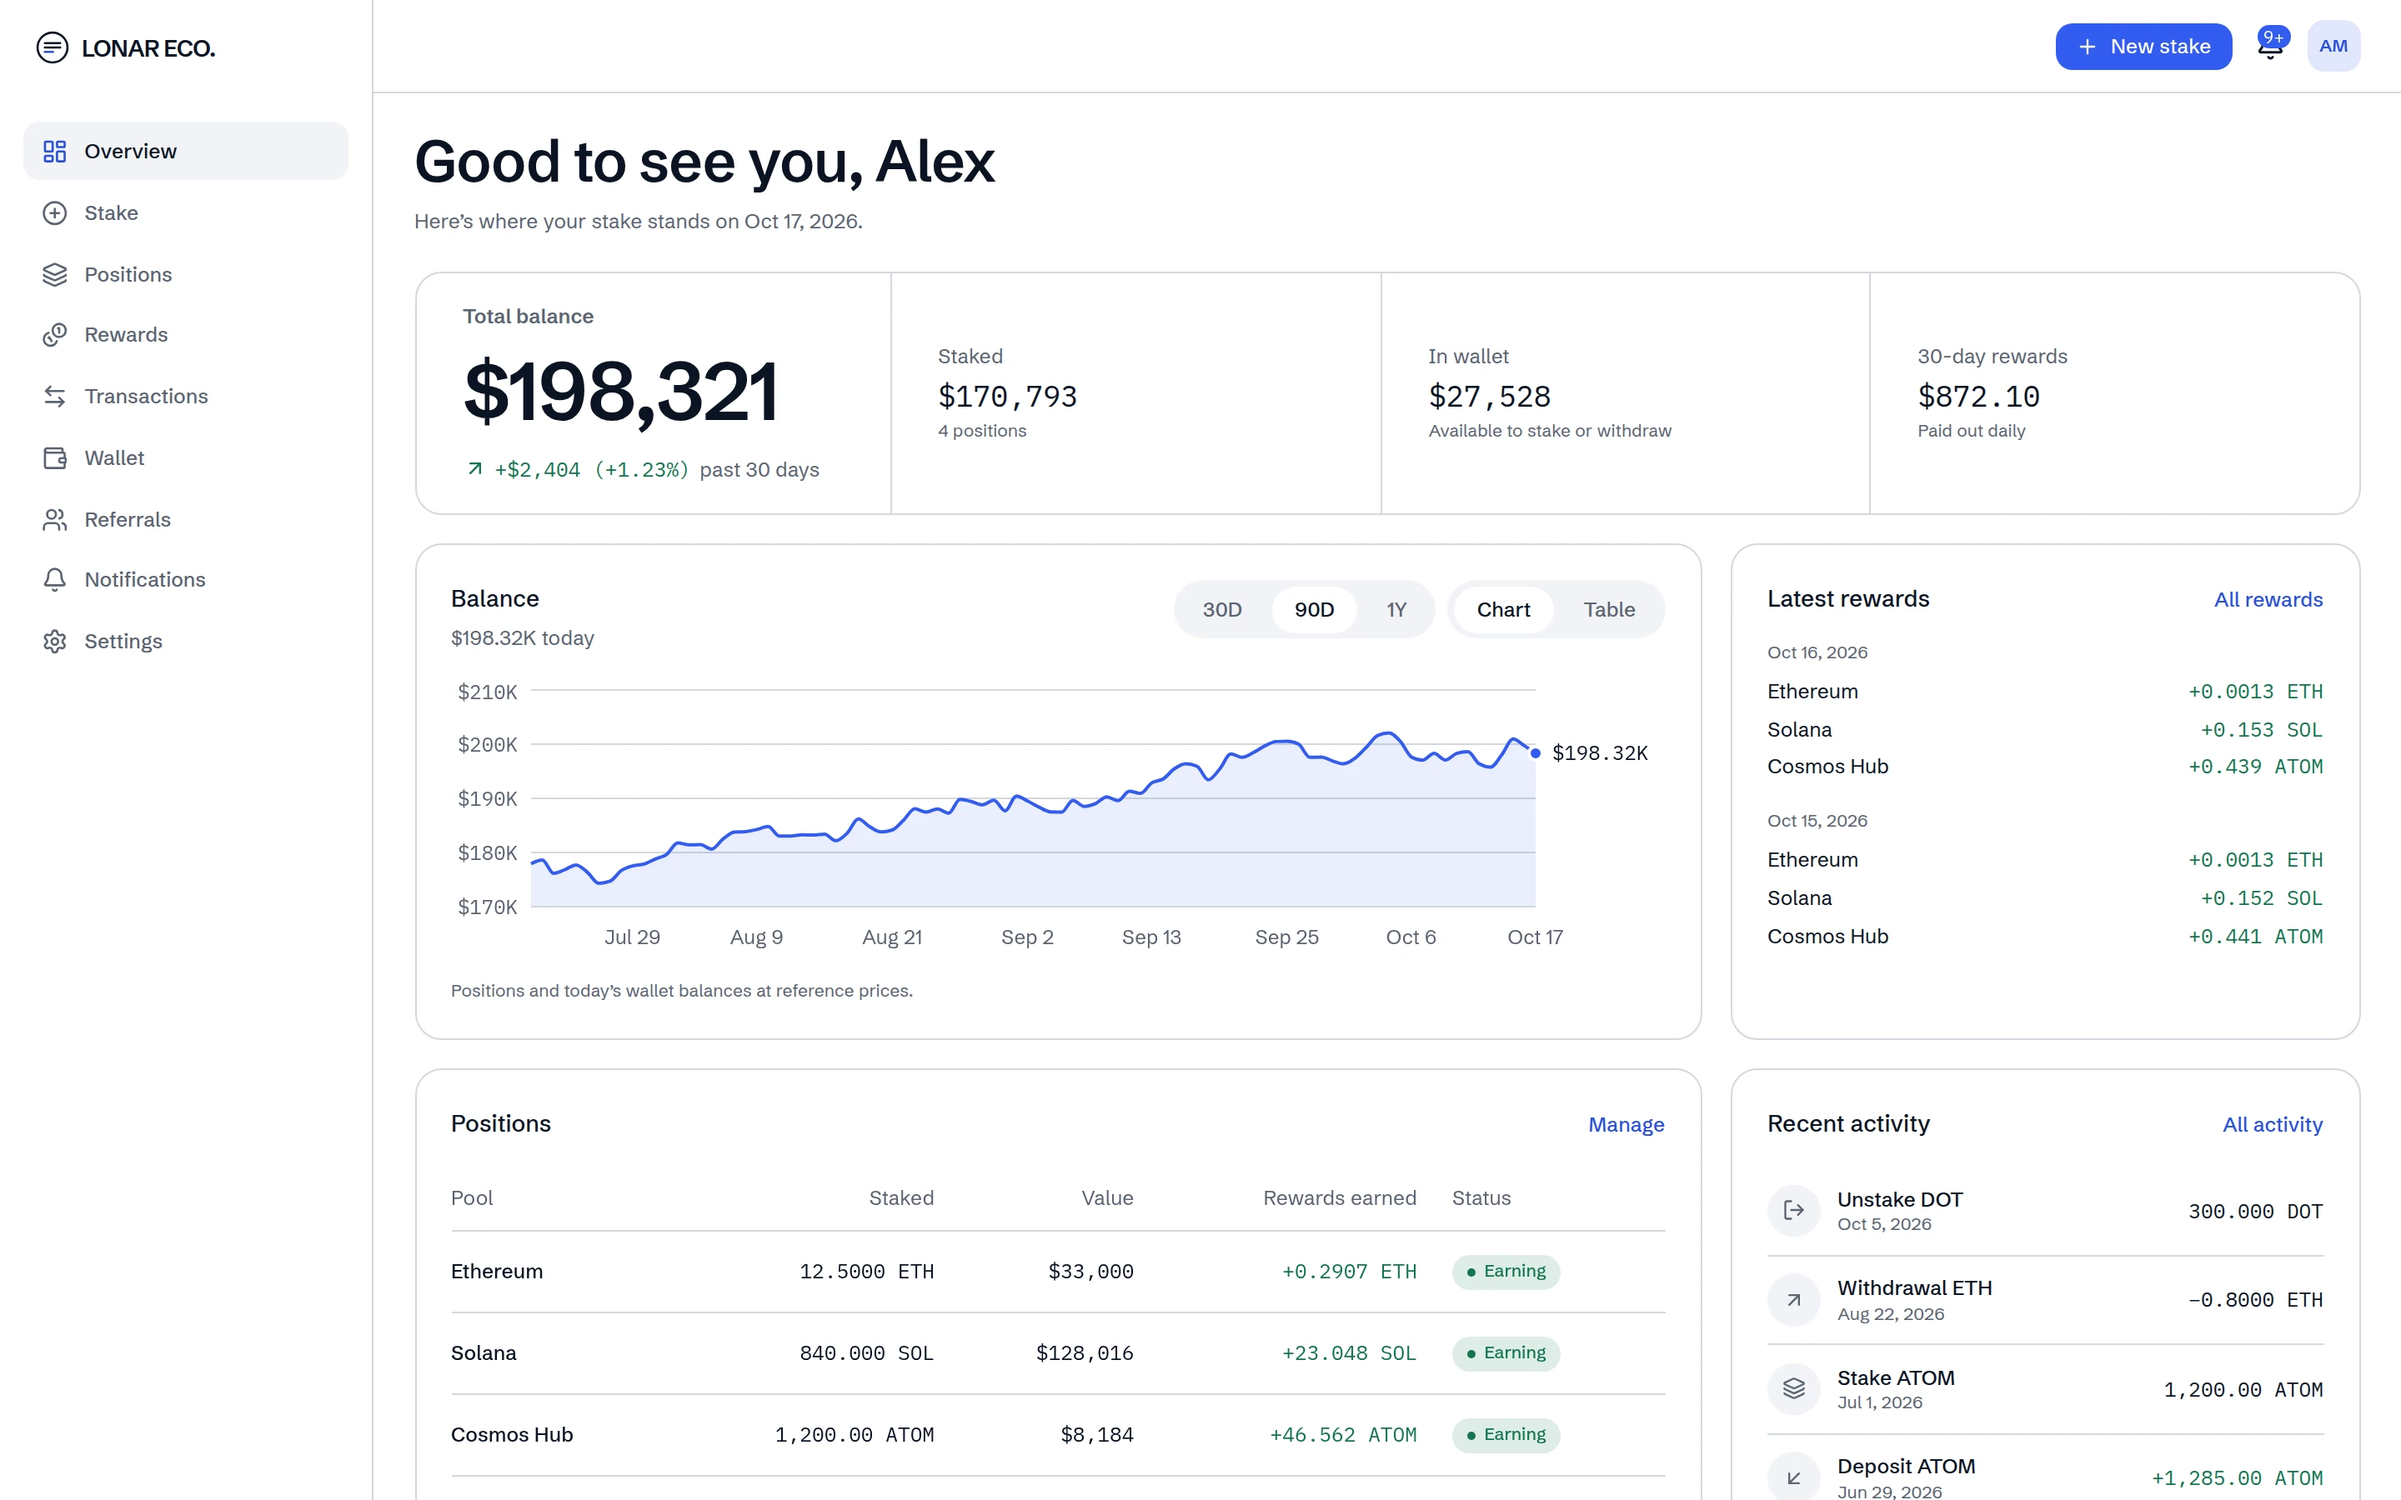
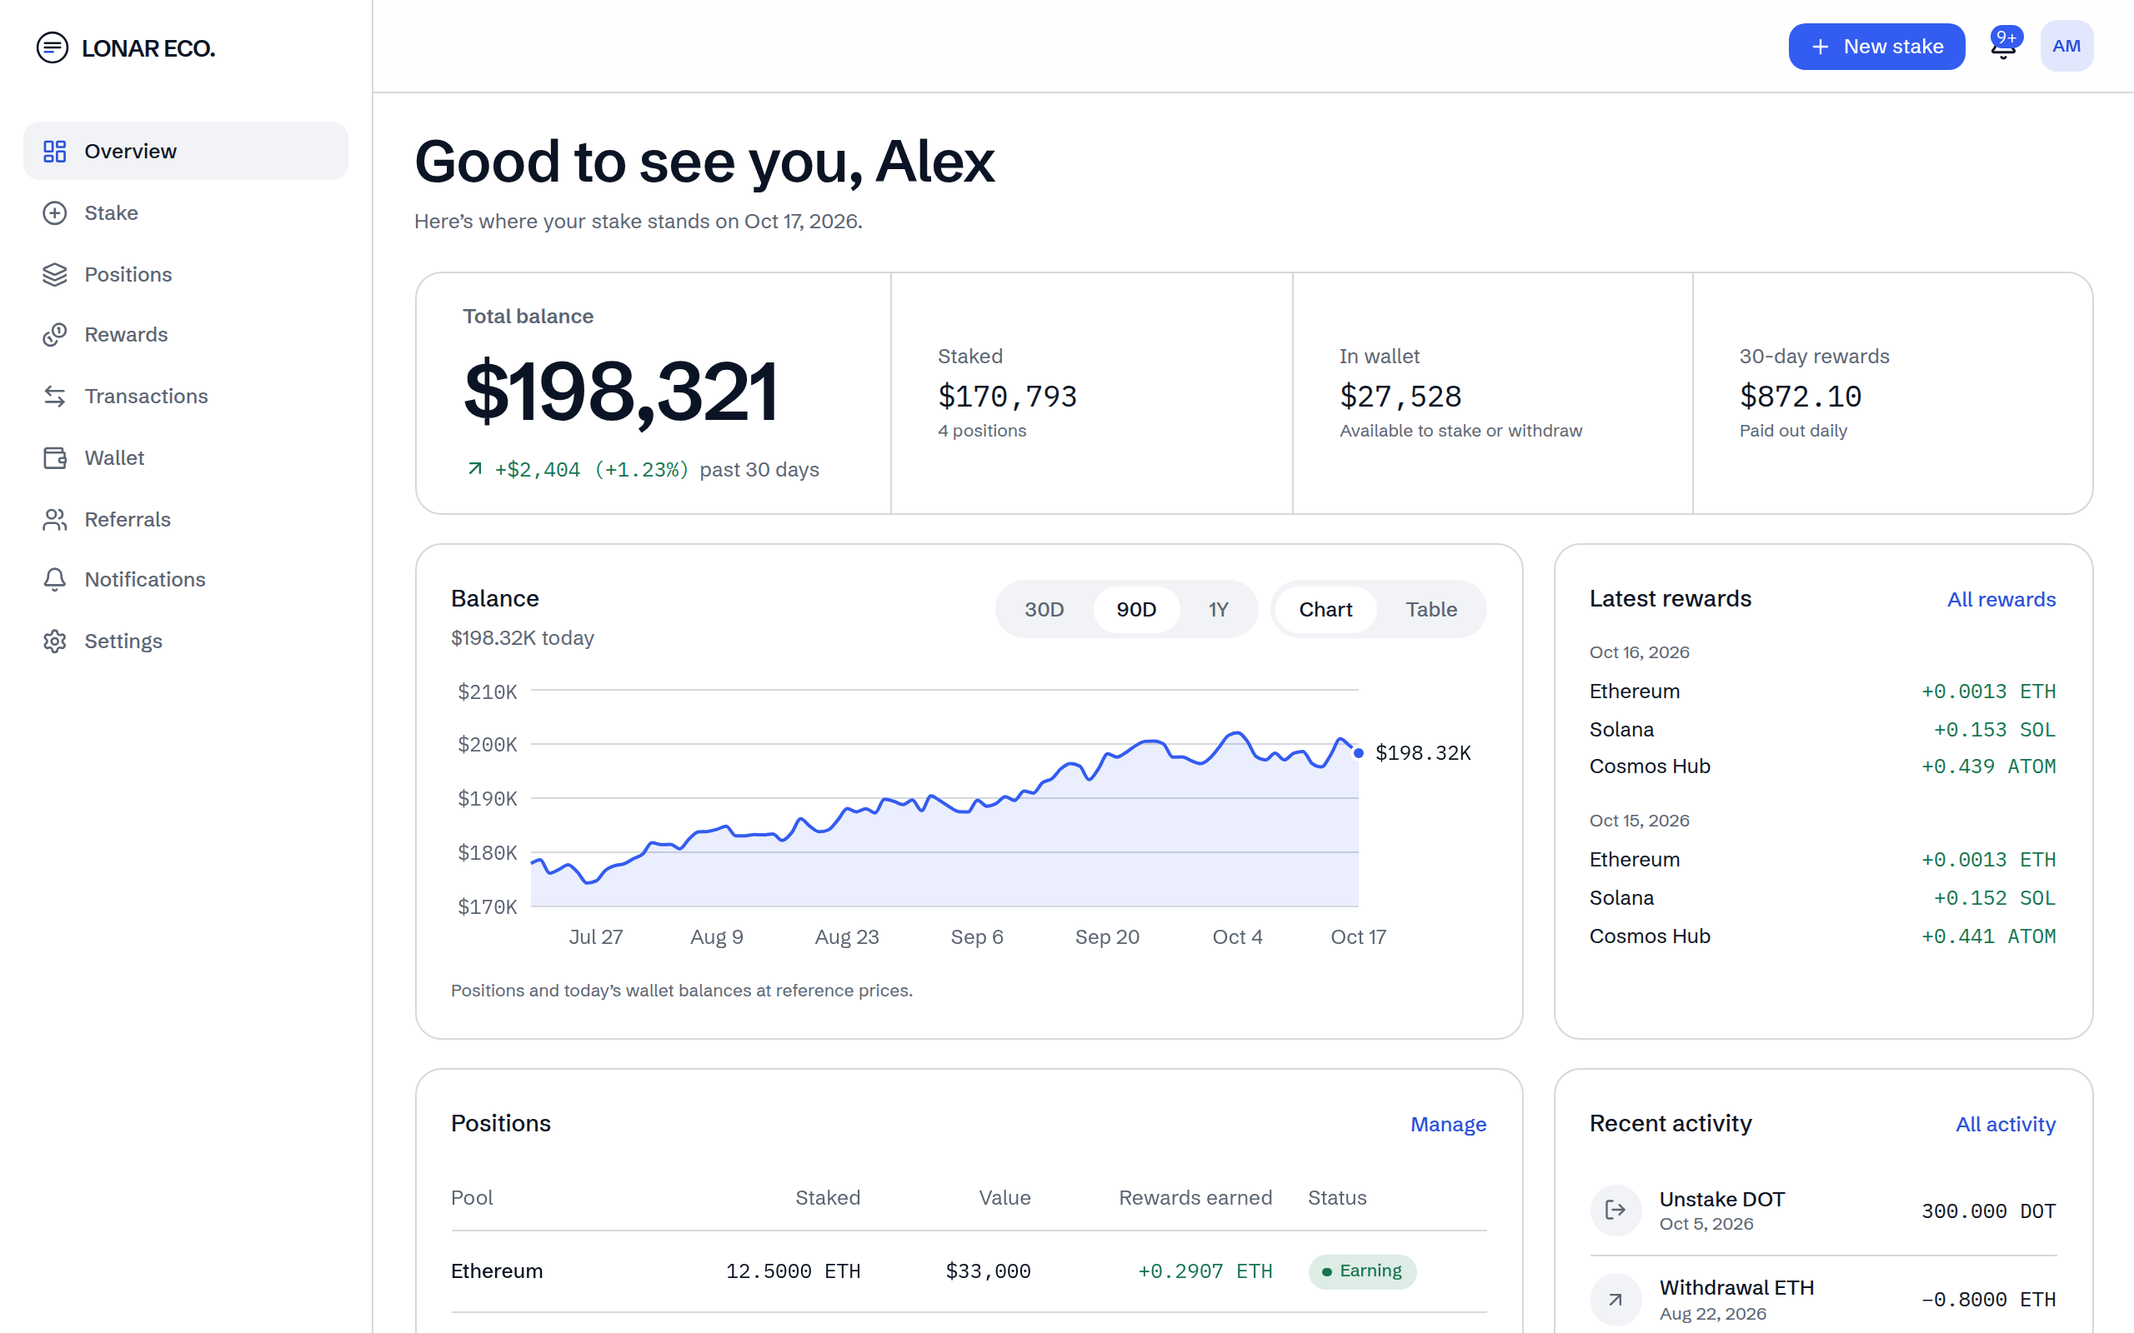
Home: smaller, sharper dashboard shot (lossless, unoptimized), hairline separators in metrics, light Trust section

diff --git a/src/components/home/HeroScreenshot.tsx b/src/components/home/HeroScreenshot.tsx
@@ -5,31 +5,27 @@ const ALT = "The LONAR ECO. dashboard: total balance, balance chart, latest rewa
 
 /**
  * The real dashboard in a macOS window: the phone layout below `sm`, the desktop layout above.
- * One <picture>, so each screen downloads only its own shot. On large screens the window runs off the
- * right edge (the section clips it), keeping the sidebar, balance and chart readable.
+ * One <picture>, so each screen downloads only its own shot. The shots are lossless WebP at 2x/3x and
+ * served as they are: re-encoding blurs the small UI text.
  */
 export function HeroScreenshot({ className }: { className?: string }) {
-  const common = { alt: ALT, priority: true, quality: 90 };
-  const {
-    props: { srcSet: desktop, ...rest },
-  } = getImageProps({
-    ...common,
+  const { props } = getImageProps({
+    alt: ALT,
     src: "/screens/dashboard-desktop.webp",
-    width: 2880,
-    height: 1800,
-    sizes: "(min-width: 64rem) 60rem, 100vw",
+    width: 2560,
+    height: 1600,
+    /* No preload: it would fetch the desktop shot on phones too */
+    loading: "eager",
+    fetchPriority: "high",
+    unoptimized: true,
   });
-  const {
-    props: { srcSet: mobile },
-  } = getImageProps({ ...common, src: "/screens/dashboard-mobile.webp", width: 780, height: 1520, sizes: "20rem" });
 
   return (
     <MacWindow address="lonar.eco/dashboard" className={className}>
       <picture>
-        <source media="(max-width: 39.99rem)" srcSet={mobile} width={780} height={1520} />
-        <source media="(min-width: 40rem)" srcSet={desktop} width={2880} height={1800} />
+        <source media="(max-width: 39.99rem)" srcSet="/screens/dashboard-mobile.webp" width={1170} height={2280} />
         {/* eslint-disable-next-line jsx-a11y/alt-text -- alt comes from getImageProps */}
-        <img {...rest} className="block h-auto w-full" />
+        <img {...props} className="block h-auto w-full" />
       </picture>
     </MacWindow>
   );

diff --git a/src/components/home/Metrics.tsx b/src/components/home/Metrics.tsx
@@ -1,5 +1,6 @@
 import { metrics } from "@/data/metrics";
 import { pools } from "@/data/pools";
+import { cn } from "@/lib/cn";
 import { LogoMarquee, type MarqueeItem } from "../blocks/LogoMarquee";
 import { StatCard } from "../blocks/StatCard";
 
@@ -13,9 +14,24 @@ export function Metrics() {
         Platform figures
       </h2>
       <div className="container-page">
-        <div className="grid grid-cols-2 gap-x-5 gap-y-7 rounded-card bg-surface-2 px-5 py-7 sm:gap-x-8 sm:p-8 lg:grid-cols-4 lg:px-10 lg:py-10">
-          {metrics.map((m) => (
-            <StatCard key={m.id} label={m.label} value={m.value} format={m.format} caption={m.caption} />
+        <div className="grid grid-cols-2 rounded-card bg-surface-2 px-1 py-2 sm:px-3 sm:py-3 lg:grid-cols-4 lg:py-6">
+          {metrics.map((m, i) => (
+            <StatCard
+              key={m.id}
+              label={m.label}
+              value={m.value}
+              format={m.format}
+              caption={m.caption}
+              className={cn(
+                /* Short hairline separators, inset from the panel edges: between columns, and between rows on phones */
+                "relative px-4 py-5 sm:px-6 sm:py-6 lg:px-8",
+                "before:absolute before:inset-y-6 before:left-0 before:w-px before:bg-rule-strong lg:before:inset-y-3",
+                i === 0 && "before:hidden",
+                i === 2 && "before:hidden lg:before:block",
+                i >= 2 &&
+                  "after:absolute after:inset-x-4 after:top-0 after:h-px after:bg-rule-strong sm:after:inset-x-6 lg:after:hidden",
+              )}
+            />
           ))}
         </div>
       </div>

diff --git a/src/components/blocks/Section.tsx b/src/components/blocks/Section.tsx
@@ -4,8 +4,8 @@ import { RevealGroup } from "./RevealGroup";
 
 export type SectionProps = {
   id?: string;
-  /** "inverse" flips to the opposite theme palette for light/dark alternation */
-  tone?: "base" | "inverse";
+  /** "inverse" flips to the opposite theme palette for light/dark alternation; "subtle" is a light grey band */
+  tone?: "base" | "subtle" | "inverse";
   /** id of the heading that names this section */
   labelledBy?: string;
   className?: string;
@@ -18,7 +18,7 @@ export function Section({ id, tone = "base", labelledBy, className, children }: 
       id={id}
       aria-labelledby={labelledBy}
       data-tone={tone === "inverse" ? "inverse" : undefined}
-      className={cn("bg-bg py-14 text-text sm:py-24 md:py-32", className)}
+      className={cn(tone === "subtle" ? "bg-surface-2" : "bg-bg", "py-14 text-text sm:py-24 md:py-32", className)}
     >
       <RevealGroup className="container-page">{children}</RevealGroup>
     </section>

diff --git a/src/components/home/Hero.tsx b/src/components/home/Hero.tsx
@@ -4,7 +4,7 @@ import { HeroScreenshot } from "./HeroScreenshot";
 
 export function Hero() {
   return (
-    <section aria-labelledby="hero-title" className="overflow-x-clip">
+    <section aria-labelledby="hero-title">
       <div className="container-page grid items-center gap-10 pt-8 pb-12 sm:gap-14 sm:pt-16 sm:pb-20 md:pt-24 md:pb-28 lg:grid-cols-12 lg:gap-12">
         <div className="lg:col-span-5">
           <h1 id="hero-title" className="max-w-[11ch] text-display">
@@ -26,7 +26,7 @@ export function Hero() {
             From 0.1 ETH. Withdraw any time; funds release after the network’s unbonding period.
           </p>
         </div>
-        <HeroScreenshot className="mx-auto w-full max-w-[20rem] sm:max-w-none lg:col-span-7 lg:w-[calc(100%+12rem)]" />
+        <HeroScreenshot className="mx-auto w-full max-w-[18rem] sm:max-w-none lg:col-span-7" />
       </div>
     </section>
   );

diff --git a/src/components/home/Trust.tsx b/src/components/home/Trust.tsx
@@ -6,7 +6,7 @@ import { Section, SectionHeader } from "../blocks/Section";
 
 export function Trust() {
   return (
-    <Section tone="inverse" labelledBy="trust-title">
+    <Section tone="subtle" labelledBy="trust-title">
       <SectionHeader
         id="trust-title"
         title="Accounted for at every step"

diff --git a/next.config.ts b/next.config.ts
@@ -3,8 +3,6 @@ import type { NextConfig } from "next";
 const nextConfig: NextConfig = {
   /* config options here */
   cacheComponents: true,
-  /* 90 keeps text in the hero dashboard screenshot crisp */
-  images: { qualities: [75, 90] },
   partialPrefetching: true,
   turbopack: {
     rules: {

diff --git a/CLAUDE.md b/CLAUDE.md
@@ -78,7 +78,7 @@
 ## 6. Карта сайта
 
 **Публичная часть**
-- `/` — Главная: hero-манифест со скриншотом реального дашборда в окне в стиле macOS (`/public/screens/dashboard-{desktop,mobile}.webp`, телефонный снимок < sm; переснимать при изменении дашборда), метрики, продукты/стейкинг-пулы, «как это работает» (4 шага в иллюстрированных карточках, обложки `StakeStoryCover`), marquee сетей, Trust & Security, цитаты/отзывы, инструменты, последние посты блога, подписка, CTA.
+- `/` — Главная: hero-манифест со скриншотом реального дашборда в окне в стиле macOS (`/public/screens/dashboard-{desktop,mobile}.webp`: десктоп 1280×800 @2x, телефон 390×760 @3x, lossless WebP, отдаются без оптимизации Next; телефонный снимок < sm; переснимать при изменении дашборда), метрики, продукты/стейкинг-пулы, «как это работает» (4 шага в иллюстрированных карточках, обложки `StakeStoryCover`), marquee сетей, Trust & Security, цитаты/отзывы, инструменты, последние посты блога, подписка, CTA.
 - `/staking` — Обзор стейкинга: список пулов/активов (фильтры, сортировка, APY, срок, мин. сумма), карточки.
 - `/staking/[asset]` — Детальная страница пула: описание, параметры, график APY, риски, FAQ, CTA «Stake».
 - `/tools` — Инструменты (хаб): калькулятор доходности, сравнение пулов, конвертер. Отдельной gas-оценки нет (удалена по решению заказчика).
